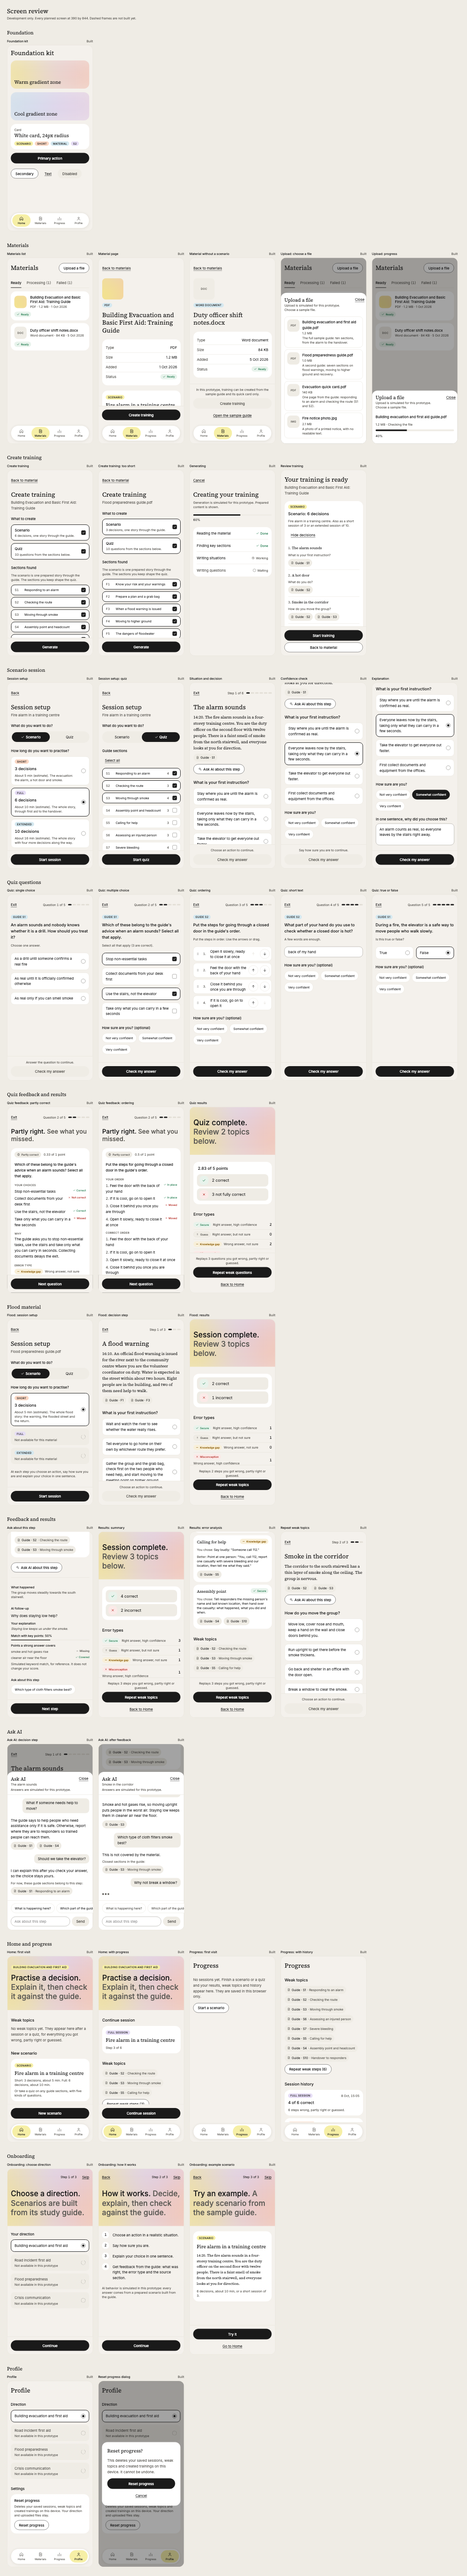
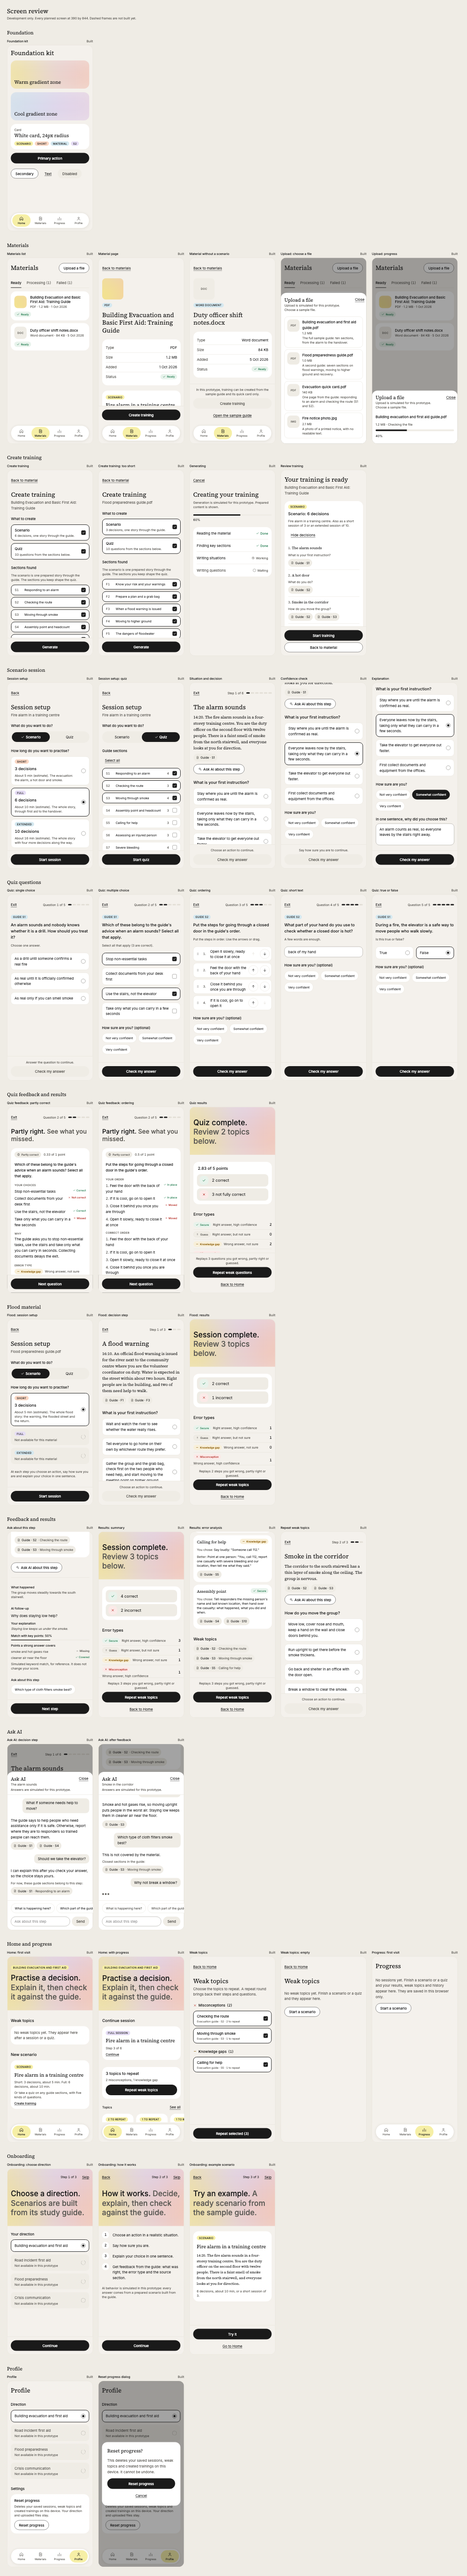
docs: weak topics screens on /screens, README and build plan

diff --git a/app/screens/samples.tsx b/app/screens/samples.tsx
@@ -7,6 +7,7 @@ import { AskAiProvider } from "@/components/AskAi/AskAi";
 import type { ChatMessage } from "@/components/AskAi/AskAi";
 import { FeedbackView } from "@/components/FeedbackView/FeedbackView";
 import { HomeView } from "@/components/HomeView/HomeView";
+import { WeakTopicsView } from "@/components/WeakTopicsView/WeakTopicsView";
 import { initialChoice, TrainingCreate } from "@/components/TrainingCreate/TrainingCreate";
 import {
   generationSteps,
@@ -37,6 +38,7 @@ import { defaultDirection } from "@/lib/directions";
 import { sampleMaterials } from "@/lib/materials";
 import { materialFromSample, sampleFiles } from "@/lib/training";
 import { currentWeakItems, scoreStep } from "@/lib/scoring";
+import { weakTopics } from "@/lib/weak-topics";
 
 /** Interactive sample screens for the /screens review page. They never touch the saved session. */
 export function SetupSample({
@@ -483,4 +485,22 @@ export function FloodResultsSample() {
 
 export function FloodSetupSample() {
   return <SetupSample start={{ ...defaultSetup, length: "short" }} scenarioId={FLOOD} />;
+}
+
+/** The Weak topics page with the sample answers, or empty. */
+export function WeakTopicsSample({ empty = false }: { empty?: boolean }) {
+  const topics = empty ? [] : weakTopics(currentWeakItems(sampleAnswers));
+  const [selected, setSelected] = useState(() => topics.map((topic) => topic.sectionId));
+  return (
+    <WeakTopicsView
+      topics={topics}
+      selected={selected}
+      onToggle={(id) =>
+        setSelected((current) =>
+          current.includes(id) ? current.filter((item) => item !== id) : [...current, id],
+        )
+      }
+      onRepeat={() => undefined}
+    />
+  );
 }

diff --git a/app/screens/page.tsx b/app/screens/page.tsx
@@ -25,6 +25,7 @@ import {
   FloodSetupSample,
   FloodStepSample,
   HomeSample,
+  WeakTopicsSample,
   ReviewSample,
   QuizFeedbackSample,
   QuizResultsSample,
@@ -338,6 +339,16 @@ export default function Screens() {
           <PhoneFrame label="Home: with progress">
             <Screen nav="/">
               <HomeSample withProgress />
+            </Screen>
+          </PhoneFrame>
+          <PhoneFrame label="Weak topics">
+            <Screen>
+              <WeakTopicsSample />
+            </Screen>
+          </PhoneFrame>
+          <PhoneFrame label="Weak topics: empty">
+            <Screen>
+              <WeakTopicsSample empty />
             </Screen>
           </PhoneFrame>
           <PhoneFrame label="Progress: first visit">

diff --git a/README.md b/README.md
@@ -43,7 +43,8 @@ Scope comes from `docs/mvp-matrix-and-ia.md`; see `CLAUDE.md` for the full list.
 All four sections and the whole learning cycle can be clicked through:
 
 - Onboarding on the first visit: choose a direction (one available, three marked "Not available in this prototype"), how it works, an example scenario. It can be skipped.
-- Home: continue an unfinished session, weak topics from your saved sessions, start a new scenario.
+- Home: continue an unfinished session (the card is the link), a repeat summary card ("N topics to repeat", error-type counts, "Repeat weak topics") with a sideways row of up to five topic cards by priority (each repeats one topic) and "See all" to the Weak topics page, and a New scenario card that opens Create training.
+- Weak topics page: topics grouped by misconception, knowledge gap and guess, each with a checkbox, and "Repeat selected". A repeat round mixes the weak steps and questions of the chosen topics.
 - Materials: tabs Ready, Processing and Failed over the sample guide plus sample "uploaded" items in every state (ready, processing, failed with a reason and "Try another file"), a simulated upload (choose a file, progress, Ready or Failed; only the file's name and size are used, nothing is read), and a material page with details, sections and excerpts. Only the sample guide has a prepared scenario.
 - Create training: upload a sample file (the evacuation guide, the flood preparedness guide, a one-page quick card, or a photo that fails), then "Create training" on a ready material or "New scenario" on Home. Choose Scenario and Quiz and the sections to keep, watch a simulated four-step generation (with Cancel), review every situation and question with its sources, and "Start training". The quick card is too short for a scenario and makes a quiz only. Created trainings show as Scenario and Quiz tags and are saved in this browser.
 - Session setup: Scenario (Short 3, Full 6 or Extended 10 decisions) or Quiz (one or more guide sections, 5, 10, 15 or a custom number of questions, capped at what the bank holds).
@@ -52,7 +53,7 @@ All four sections and the whole learning cycle can be clicked through:
 - Ask AI: a button on the decision step and on feedback opens a chat sheet about the current step, with suggested questions and a text field. Answers are prepared in the scenario JSON and matched by keywords; unmatched questions get "This is not covered by the material" with the closest guide sections. Before you answer, it never says which action is right.
 - Quiz: 33 original questions in `content/quiz-bank.json`, in five types (single choice, multiple choice, ordering with buttons or drag, short text checked against accepted phrases, true or false). Feedback shows the correct answer, why and the guide section; multiple choice and ordering get partial credit; confidence is optional.
 - Results: score, error types, how the situation ended, error analysis with sources, weak topics, and "Repeat weak topics".
-- Progress: weak topics and session history from scenarios and quizzes, with "Repeat weak steps" and "Repeat weak questions", and an empty state.
+- Progress: the same repeat summary and topic row, and session history from scenarios, quizzes and repeat rounds, with an empty state.
 - Profile: direction, and "Reset progress" behind a confirmation.
 
 Sessions, history and the profile are saved in this browser on this device (`localStorage`). A page reload keeps your place.

diff --git a/docs/build-plan.md b/docs/build-plan.md
@@ -1,6 +1,6 @@
 # Build plan
 
-One commit per screen group, in this order. Steps 1 to 17 are built. Steps 2 to 6 were first built as a thin clickable path through the whole cycle. Each commit runs `npm run lint`, `npm run typecheck` and `npm run build`, and saves a screenshot in `docs/screens/`.
+One commit per screen group, in this order. Steps 1 to 18 are built. Steps 2 to 6 were first built as a thin clickable path through the whole cycle. Each commit runs `npm run lint`, `npm run typecheck` and `npm run build`, and saves a screenshot in `docs/screens/`.
 
 1. Foundation refresh: tokens, pill buttons, cards, tags, gradient helper, four-item bottom navigation, storage helper. (A temporary "Coming next" screen stood in for unbuilt sections and is now removed.)
 2. Materials: list, material page, upload sequence.
@@ -19,6 +19,7 @@ One commit per screen group, in this order. Steps 1 to 17 are built. Steps 2 to 
 15. Quiz: question bank in `content/quiz-bank.json`, scoring for five question types with tests, question and feedback screens, quiz results, and quiz answers in weak topics, Progress and Home.
 16. Create training from a material: sample-file upload, Create training, simulated generation, Review, Scenario and Quiz tags, Start training into Session setup, reset in Profile. Built after the five screenshot fixes and before any extra quiz question types.
 17. Second sample material (flood preparedness): load its guide, scenario and question bank through adapters (namespaced step and question ids, ordering items shuffled in a fixed way, keyword-count text answers), offer it in the upload flow, limit lengths to what each scenario has, and show each scenario's own situation outcome.
+18. Weak topics redesign: repeat summary card and topic row on Home and Progress, a Weak topics page grouped by error type, and a repeat round that mixes steps and questions.
 
 ## Screen review page
 `/screens` is a development-only page (404 in production, not linked from the navigation) that shows every planned screen at 390 by 844. Screens that are not built are dashed frames. Each screen commit replaces its frame with the real screen using sample data.
